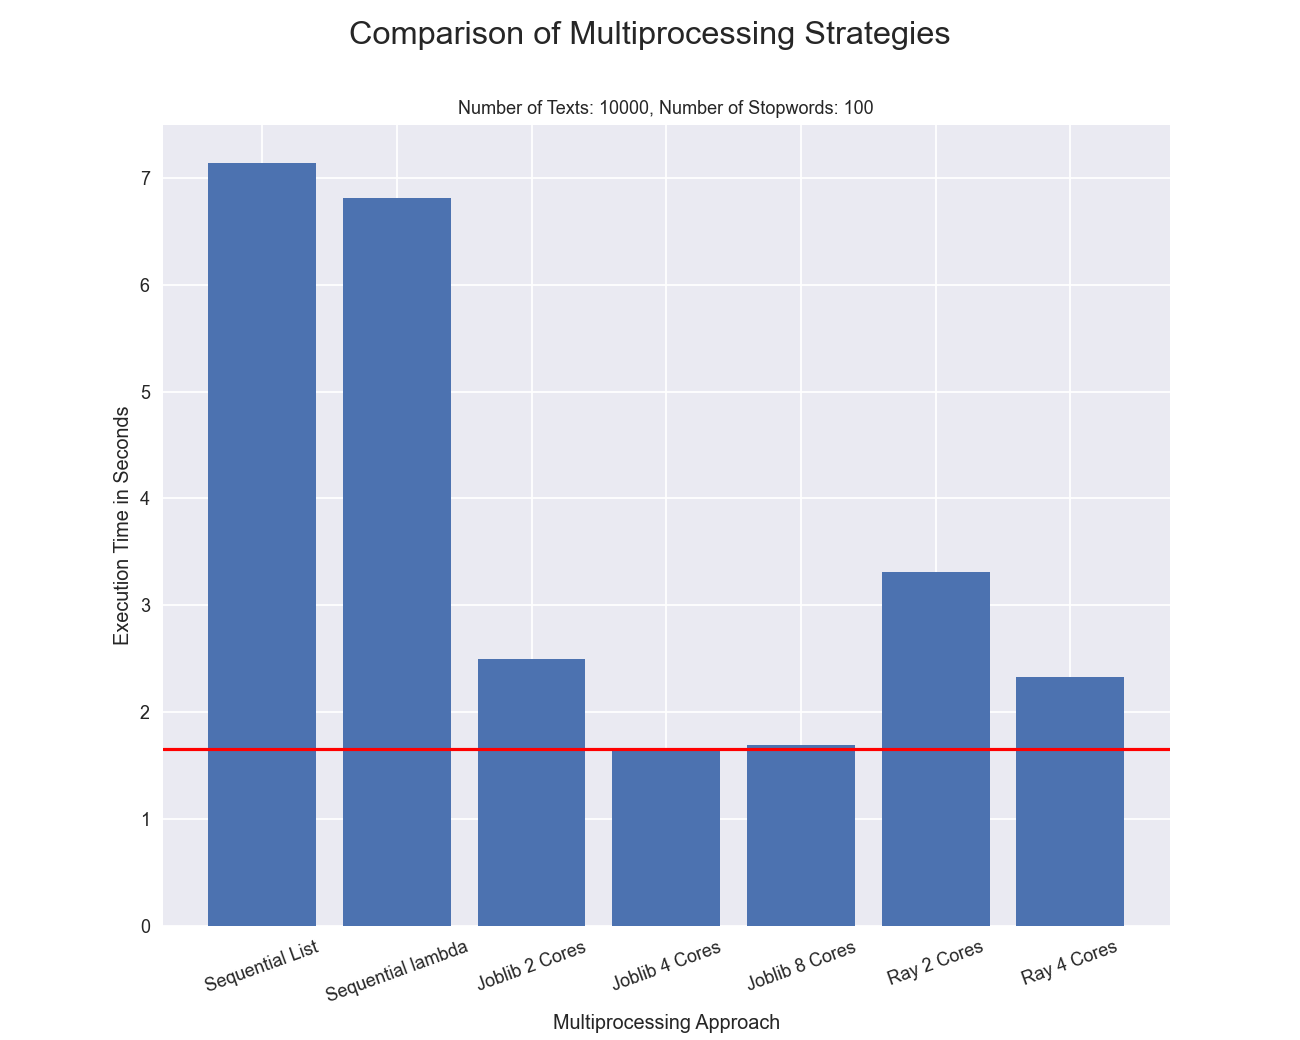
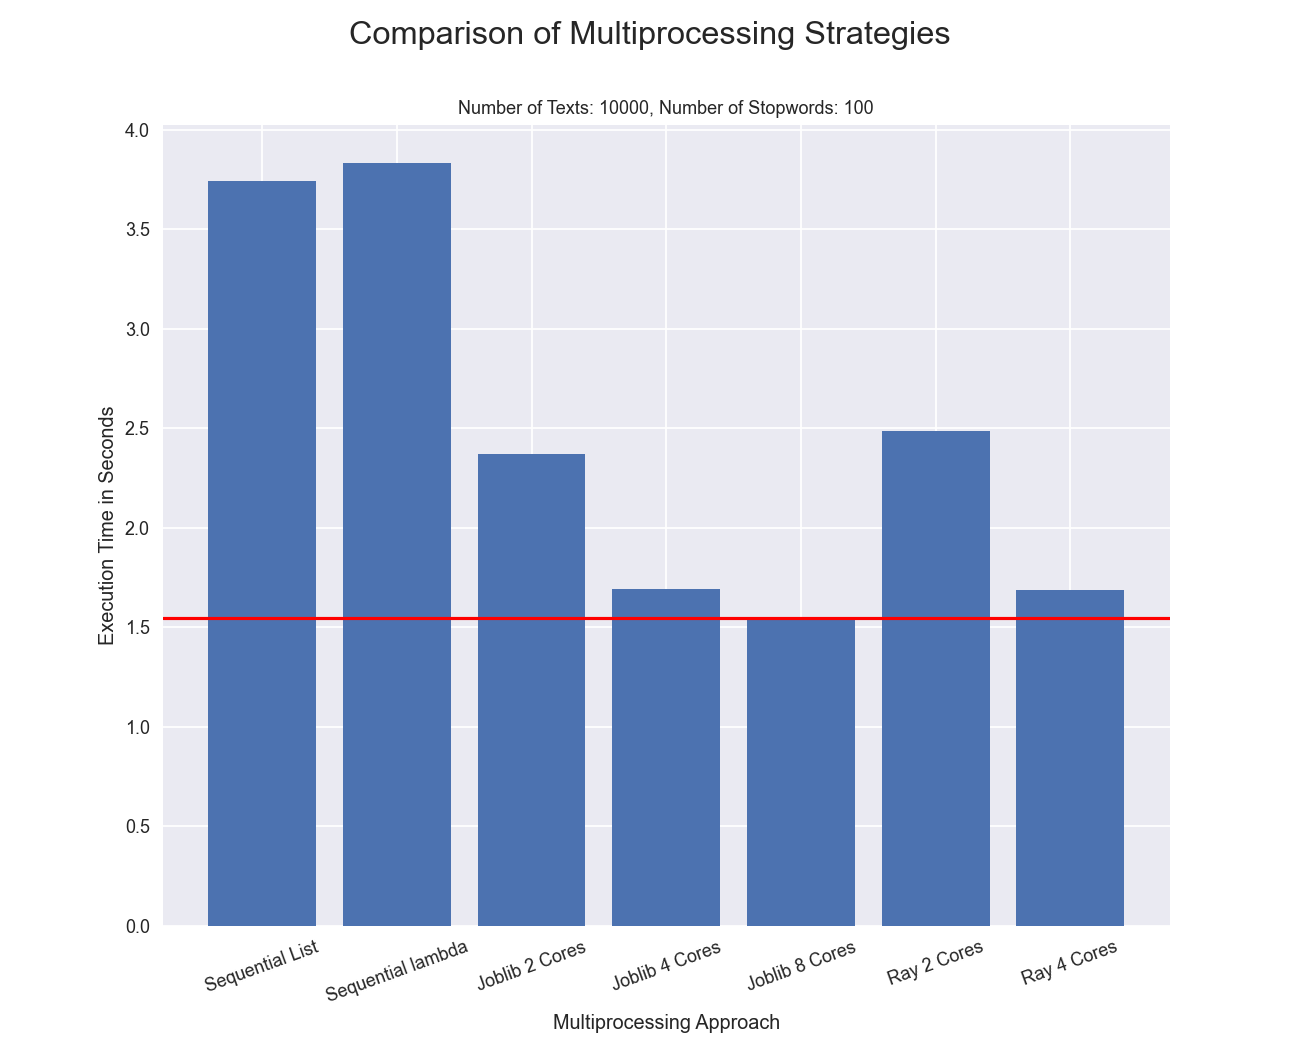
changed graphics Preprocessing Experiments

diff --git a/NLP_Multiprocessing_For_Preprocessing_Experiment.py b/NLP_Multiprocessing_For_Preprocessing_Experiment.py
@@ -70,9 +70,9 @@ print(len(stopwords_list))
 
 test_dict = {
     # Number of Stop words to remove
-    "#Stopwords": [100, 2070],
+    "#Stopwords": [100],
     # Number of news articles to include
-    "#news_articles": [200, 10000, 500000],
+    "#news_articles": [500000],
     #libraries and number of cores to test out
     "Libraries": {"Joblib": [2, 4, 8], "Ray":[2, 4],}
 }
